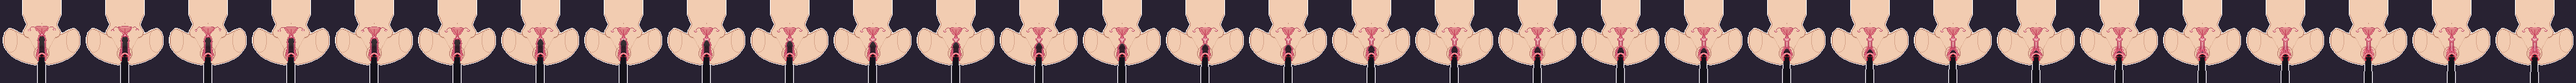
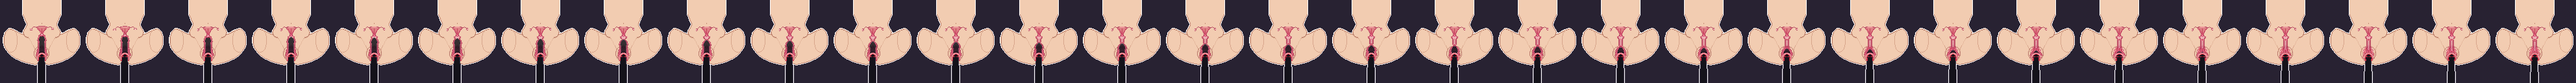
test_bodyM 高潮分階段：陰唇外翻 → 陰蒂勃起 → 陰道痙攣 → 子宮腫脹下降吸吮（陰蒂勃起、子宮腫脹拆成獨立參數，打開時陰蒂先不勃起，子宮下降吸吮只在最後一階）；陰道滿滿精液時痙攣過，拔出陰莖時陰道一抽一抽吐出精液；資訊列顯示階段；除錯 set()；sw CACHE v578
Claude-Session: https://claude.ai/code/session_01FDQv7ejH7qP5aDm6z3vYkH

Changed region(s): [[0.0, 0.3125, 0.4375, 0.375], [0.5625, 0.3438, 1.0, 0.375], [0.4688, 0.3438, 0.5312, 0.375]]

diff --git a/web/sw.js b/web/sw.js
@@ -1,7 +1,7 @@
 // 網路優先、離線才退回快取;/api/ 不攔(存檔永遠即時)。
 // 重點:向伺服器要「完整回應」(no-store 的新 Request,不帶條件標頭),
 // 避免拿到空的 304 就丟給頁面 → 造成 app.js/模組載入到空內容而整個炸掉。
-const CACHE = "yorozuya-v577";
+const CACHE = "yorozuya-v578";
 const VISIT = "yoro-visit-pics";
 
 self.addEventListener("install", () => self.skipWaiting());

diff --git a/web/test_bodyM/index.html b/web/test_bodyM/index.html
@@ -137,6 +137,6 @@
 <script src="/content/room_doll.js?v=20"></script>
 <script type="module" src="/content/test_bodyM.js?v=7"></script>
 <script type="module" src="/content/test_bodyM_peek.js?v=9"></script>
-<script type="module" src="/content/test_bodyM_rub.js?v=22"></script>
+<script type="module" src="/content/test_bodyM_rub.js?v=23"></script>
 </body>
 </html>

diff --git a/tools/droom_groin/gen_rub_sheets.py b/tools/droom_groin/gen_rub_sheets.py
@@ -7,9 +7,10 @@
   rub_insert_g1～g3.png：插著的反應 1～3 階（GRIP＝AROUSE＝階/3：陰道收緊、陰道口那圈纏住、陰道勃起變長）
   rub_insert_g1p～g3p.png：同上、往外抽的那一下（PULL=1：陰道口那圈黏著莖被拖出來）
   rub_insert_g2s／g3s.png：2、3 階的痙攣那一下（SPASM=1：陰道因為興奮一抖一抖鎖緊，網頁一陣一陣跟平常那條交替）
-  rub_insert_g2u／g3u.png：2、3 階子宮口吸吮往上那一下（BOB=1：子宮口往上縮、頸口張開；網頁上下交替吸陰道裡的精液）
-  2、3 階子宮腫脹、子宮口下降 DESC＝3／7 格（整個子宮降下來）；龜頭頂到子宮口就畫子宮口親著龜頭（愛心網頁畫）
-  rub_insert_lumen.png：上面插入那 11 條的陰道空間遮罩（一條一列，照 LUMEN_ROWS 順序；紅＝陰道裡空著、綠＝子宮腔）——網頁讓內射的精液照陰道形狀流
+  rub_insert_g3u.png：3 階子宮口吸吮往上那一下（BOB=1：子宮口往上縮、頸口張開；網頁上下交替吸陰道裡的精液）
+  rub_open_e.png：打開後陰蒂勃起（CLIT=1；反應 1 階以上、還沒插進去時用）
+  1 階起陰蒂勃起（CLIT=1）；3 階子宮腫脹（SWELL=1）、子宮口下降 DESC＝7 格（整個子宮降下來）；龜頭頂到子宮口就畫子宮口親著龜頭（愛心網頁畫）
+  rub_insert_lumen.png：上面插入那 10 條的陰道空間遮罩（一條一列，照 LUMEN_ROWS 順序；紅＝陰道裡空著、綠＝子宮腔）——網頁讓內射的精液照陰道形狀流
 用法：python3 gen_rub_sheets.py [輸出資料夾，預設 web/test_bodyM]
 """
 import os, sys, subprocess, tempfile
@@ -17,15 +18,17 @@ from PIL import Image
 HERE = os.path.dirname(os.path.abspath(__file__))
 OUT = sys.argv[1] if len(sys.argv) > 1 else os.path.join(HERE, '..', '..', 'web', 'test_bodyM')
 TIP0, TIP1 = 76, 106
-DESC_BY_LV = [0, 0, 3, 7]                                 # 子宮口下降幾格（跟網頁 DESC_BY_LV 一樣）
+# 高潮分階段（使用者）：1 陰唇外翻（打開）→ 2 陰蒂勃起（反應 1 階）→ 3 陰道痙攣（2 階）→ 4 子宮腫脹、下降、吸吮（3 階）
+DESC_BY_LV = [0, 0, 0, 7]                                 # 子宮口下降幾格（跟網頁 DESC_BY_LV 一樣）
 INS0, INS1 = 54, 84                                       # 插入：龜頭頂 54（頂到子宮頸再往裡推 6 格，子宮被壓扁）～84（剛進肉穴口）
 tips = list(range(TIP0, TIP1 + 1))
 with tempfile.TemporaryDirectory() as td:
-    jobs = [(5, 'rub_closed.png', 1, {}), (6, 'rub_open.png', 1, {}), (6, 'rub_open_a35.png', .35, {}), (6, 'rub_open_a70.png', .7, {}), (8, 'rub_insert.png', 1, {})]
+    jobs = [(5, 'rub_closed.png', 1, {}), (6, 'rub_open.png', 1, {}), (6, 'rub_open_a35.png', .35, {}), (6, 'rub_open_a70.png', .7, {}), (6, 'rub_open_e.png', 1, {'CLIT': '1'}), (8, 'rub_insert.png', 1, {})]
     for lv in (1, 2, 3):                                  # 插著的反應：陰道收緊＋勃起變長，往外抽那一下另一條
-        r = {'GRIP': str(lv / 3), 'AROUSE': str(lv / 3), 'DESC': str(DESC_BY_LV[lv])}
+        r = {'GRIP': str(lv / 3), 'AROUSE': str(lv / 3), 'DESC': str(DESC_BY_LV[lv]), 'CLIT': '1', 'SWELL': '1' if lv == 3 else '0'}
         jobs += [(8, f'rub_insert_g{lv}.png', 1, r), (8, f'rub_insert_g{lv}p.png', 1, {**r, 'PULL': '1'})]
-        if lv >= 2: jobs += [(8, f'rub_insert_g{lv}s.png', 1, {**r, 'SPASM': '1'}), (8, f'rub_insert_g{lv}u.png', 1, {**r, 'BOB': '1'})]
+        if lv >= 2: jobs.append((8, f'rub_insert_g{lv}s.png', 1, {**r, 'SPASM': '1'}))
+        if lv == 3: jobs.append((8, f'rub_insert_g{lv}u.png', 1, {**r, 'BOB': '1'}))
     LUMEN_ROWS = [n for (m, n, a, e) in jobs if m == 8]
     lumen = Image.new('RGB', (128 * (INS1 - INS0 + 1), 128 * len(LUMEN_ROWS)), (0, 0, 0))
     only = os.environ.get('ONLY')                         # 只重產某幾條（逗號分隔檔名）

diff --git a/tools/droom_groin/trace128.py b/tools/droom_groin/trace128.py
@@ -94,6 +94,8 @@ PULL = float(os.environ.get('PULL', '0'))          # 抽插方向：>0 往外抽
 LIFT = 6.0 * AROUSE
 SPASM = float(os.environ.get('SPASM', '0'))        # 痙攣（2026-11-09 使用者：陰道因為興奮一抖一抖鎖緊）：0 平常 → 1 抽的那一下（整條再夾緊一次、上段縮回、陰道口那圈收進去；不畫抖動符號）
 # 子宮的反應（2026-11-09 使用者：興奮時子宮腫脹、子宮口下降，上下吸吮下面的精液；龜頭頂著時子宮口親著龜頭、飄出愛心〔愛心網頁畫〕）
+CLIT_ER_AMT = float(os.environ.get('CLIT', '0'))   # 陰蒂勃起 0 → 1（高潮第 2 階；環境變數 CLIT）
+SWELL = float(os.environ.get('SWELL', '0'))        # 子宮腫脹 0 → 1（高潮第 4 階，跟子宮口下降、吸吮一起）
 DESC = float(os.environ.get('DESC', '0'))          # 子宮口下降幾格（整個子宮跟著降下來；抵掉陰道勃起往上提的 LIFT）
 BOB = os.environ.get('BOB', '0') == '1'            # 吸吮往上那一下：子宮口往上縮 3 格、頸口張開
 UTERUS = set()                                     # 子宮腔裡空著的格子（網頁讓吸進去的精液填子宮）；跟 LUMEN 一起輸出（綠）
@@ -435,7 +437,7 @@ def rub_open(px):
     # 陰蒂包皮＋陰蒂（上面）
     for dx in (-1, 1):
         for (x, y) in pixel_perfect(stroke([(MIDX, top - 1.6 - A), (MIDX + dx * 2.6, top + 1.0 - A)])): px[x, y] = SW['edge']   # 包皮往上退
-    draw_clit(px, top + .4 + .8 * A, erect=A)                  # 打開後陰蒂微微勃起（往下一點、在打開的那塊裡）
+    draw_clit(px, top + .4 + .8 * A, erect=CLIT_ER_AMT)             # 陰蒂勃起（2026-11-09 使用者：高潮第 2 階才勃起，陰唇外翻＝第 1 階時還沒）
     draw_urethra(px, top + H * L(.46, .4), big=A > .5)         # 尿道口：前庭裡、陰道口上面
 
 
@@ -658,7 +660,7 @@ def xray_section(im):
     DROP = DESC - LIFT                                       # 子宮整體位移（＋往下）
     cerv0 = 60.0 + DROP - (3.0 if BOB else 0.0)
     push = max(0.0, cerv0 - PEN_TIP) if (INSERT > .05 and PENIS in PEN_COLORS) else 0.0
-    SW_ = AROUSE                                             # 子宮腫脹：變大變圓、更紅
+    SW_ = SWELL                                              # 子宮腫脹：變大變圓、更紅
     F_TOP, F_BOT = 47.0 + DROP - 3.0 * SW_ - .35 * push, 56.0 + DROP - .85 * push
     F_W, NECK_W = 8.2 + 2.6 * SW_ + .4 * push, 2.4 + .6 * SW_ + .3 * push   # 子宮底、漏斗底、上寬、頸寬
     F_BOT = min(F_BOT, cerv0 - push - 2.5)

diff --git a/tools/droom_groin/README.md b/tools/droom_groin/README.md
@@ -101,3 +101,13 @@ W=220 H=230 F=380 DIST=.40 EYE=.22 PITCH=12 CY=95 UP=3 OUT=out.png node groin_cl
   子宮腔遮罩＝`rub_insert_lumen.png` 綠色（`UTERUS`），吸進去的精液從頸管往子宮底往上漫（`fillWomb`）。資訊列「子宮口吸著精液・子宮裡 n%」。
 - 親龜頭：龜頭頂到子宮口（`PTIP <= 子宮口`）的每一格都畫——子宮口一顆噘起來的小圓頭壓在龜頭頂上（中間亮、頸口深紅貼著尿道口），不分階數。
   網頁每 420ms 從那裡飄出一顆 5×5 像素愛心（往上飄、左右晃、最後 0.3 淡掉）；親著的時候射＝直接灌進子宮（子宮滿了才往陰道流）。資訊列「子宮口親著龜頭♥」。
+
+## 高潮分階段（2026-11-09 使用者）＋噴精
+
+1 陰唇外翻（磨 4 下打開）→ 2 陰蒂勃起（反應 1 階）→ 3 陰道痙攣（2 階）→ 4 子宮腫脹、下降、吸吮（3 階）。
+- 陰蒂勃起改成獨立的 `CLIT=1`（環境變數；程式裡 `CLIT_ER_AMT`）：打開那幾條（`rub_open*`）不勃起；`rub_open_e.png`＝打開後勃起（反應 ≥1 階、還沒插進去時用）；插入 1～3 階都勃起，0 階不勃起。
+- 子宮腫脹改成獨立的 `SWELL=1`，只有 3 階；子宮口下降 `DESC_BY_LV`＝[0,0,0,7]；吸吮只有 3 階（`rub_insert_g2u.png` 拿掉）。收緊、陰道變長照舊 1～3 階。
+- 網頁：打開後在外面繼續磨也會加反應（一半速度，最多到 1.99＝陰蒂勃起；陰道、子宮的階段要插著）。資訊列最前面「【n・階段名】」。
+- 噴精：陰道裡精液 ≥1（子宮口前裝滿、流進陰道）時痙攣過＝`squirtReady`；拔出陰莖時陰道一抽一抽（3～5 下＋多的量，每下 130ms／停 230ms）吐出精液：
+  陰道口一團、每下 5～15 顆白點往下半圈散開飛（重力），陰道裡的量跟著少；落在屁股下緣附近的幾滴變成往下流的 drops。資訊列「陰道吐出精液！」。
+- 除錯 `TestBodyMRub.set({ react: 2.6, inside: 1.8 })` 直接改狀態。
